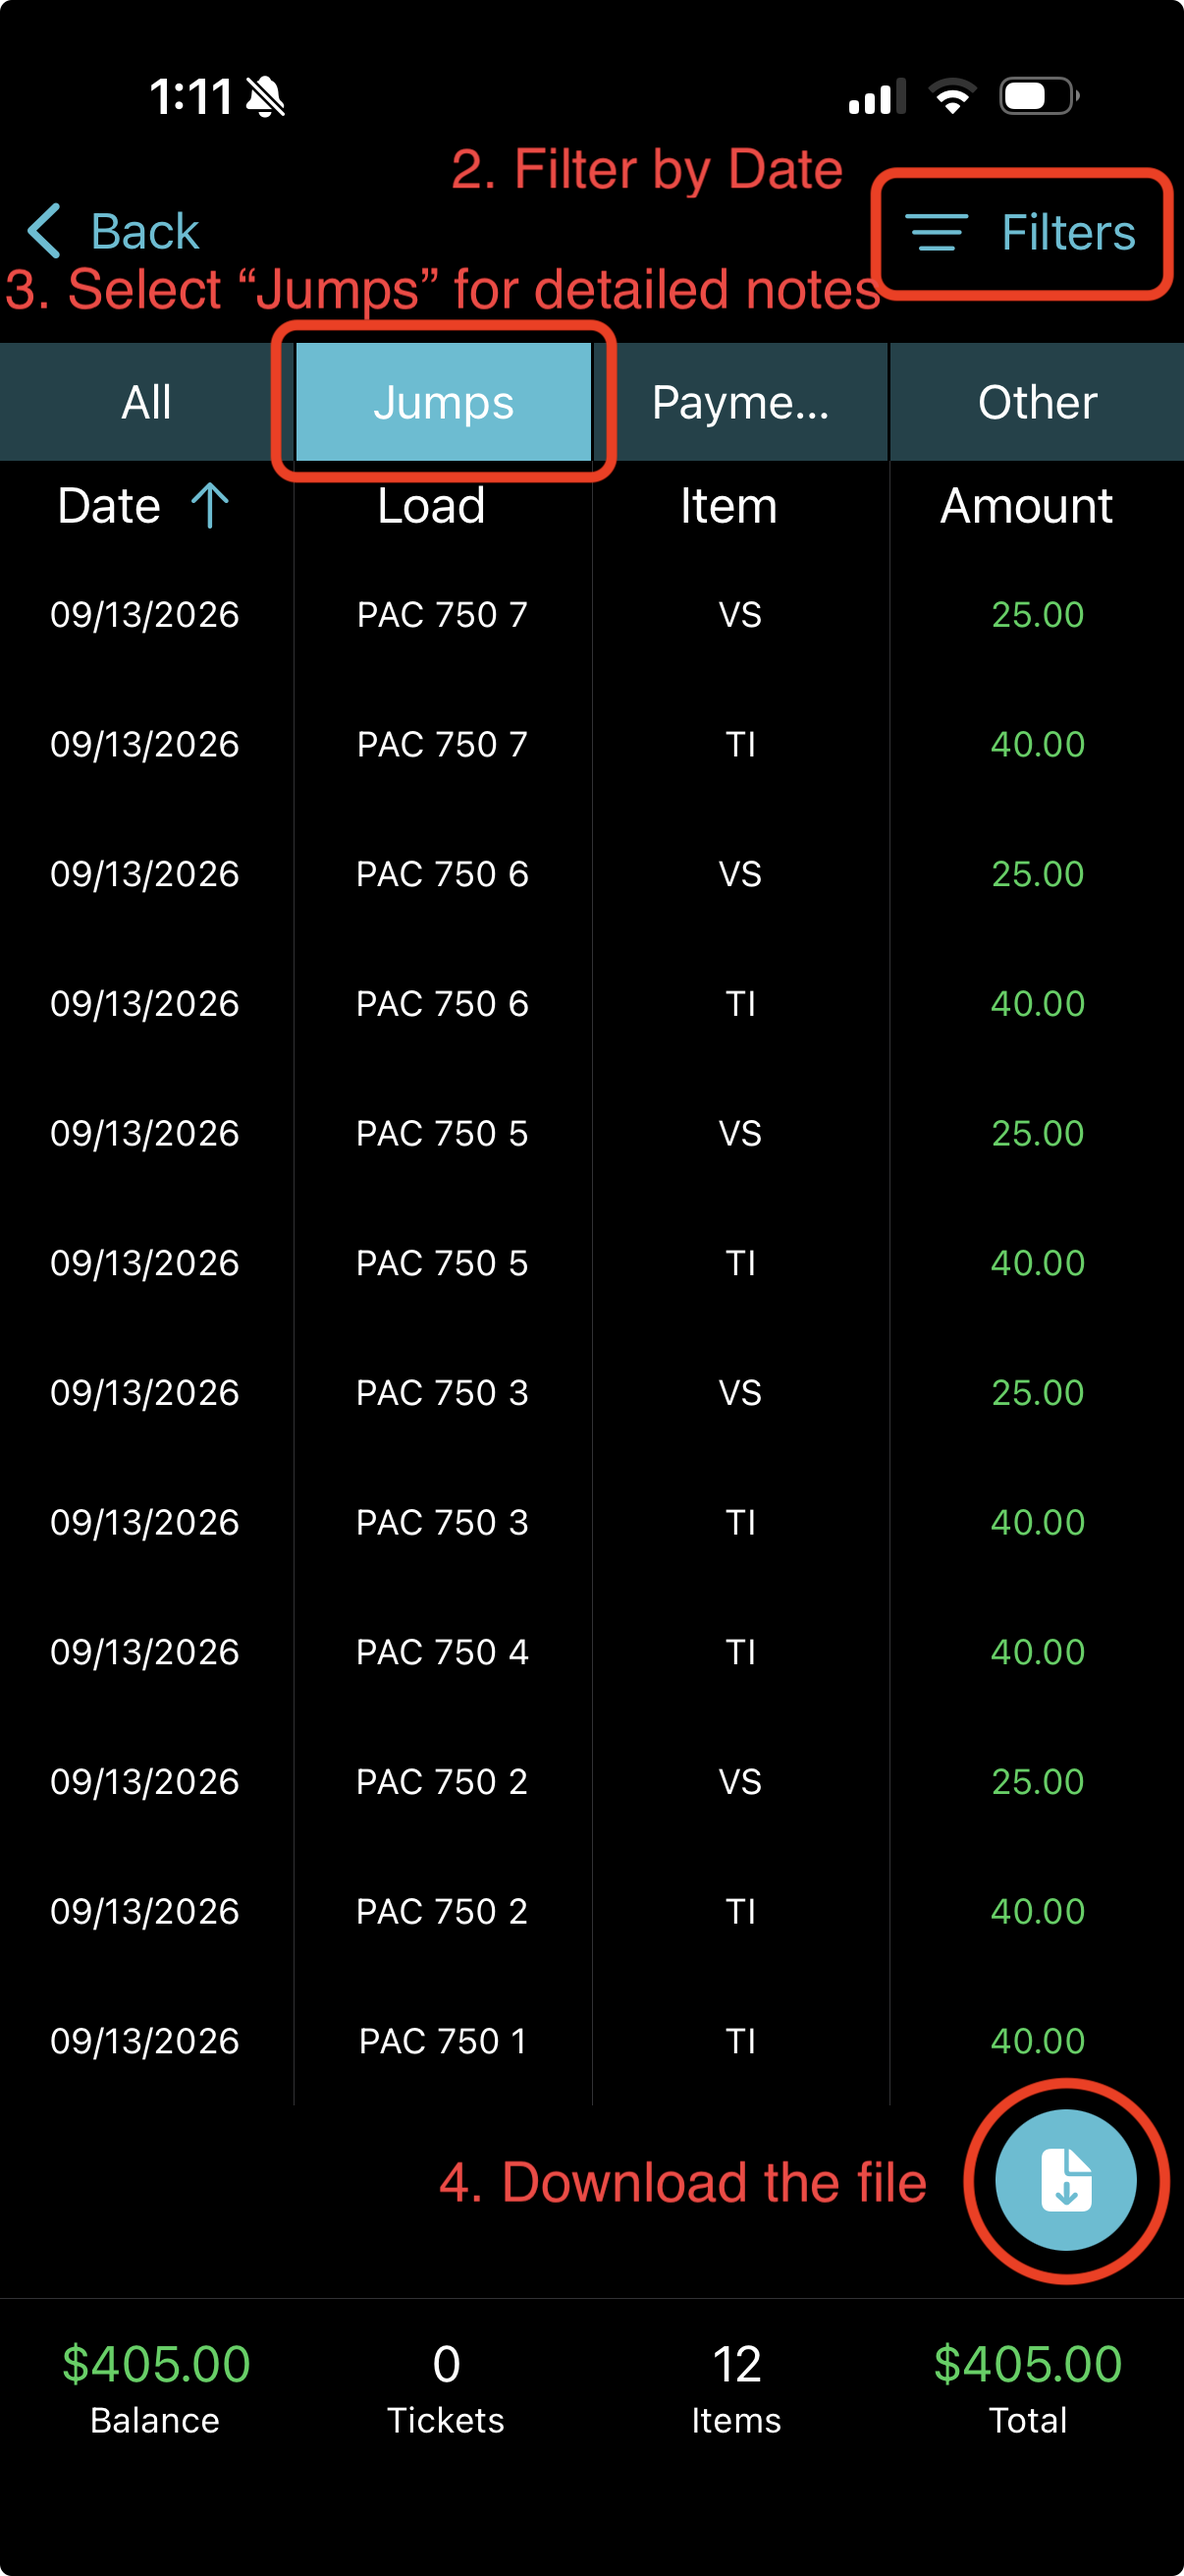
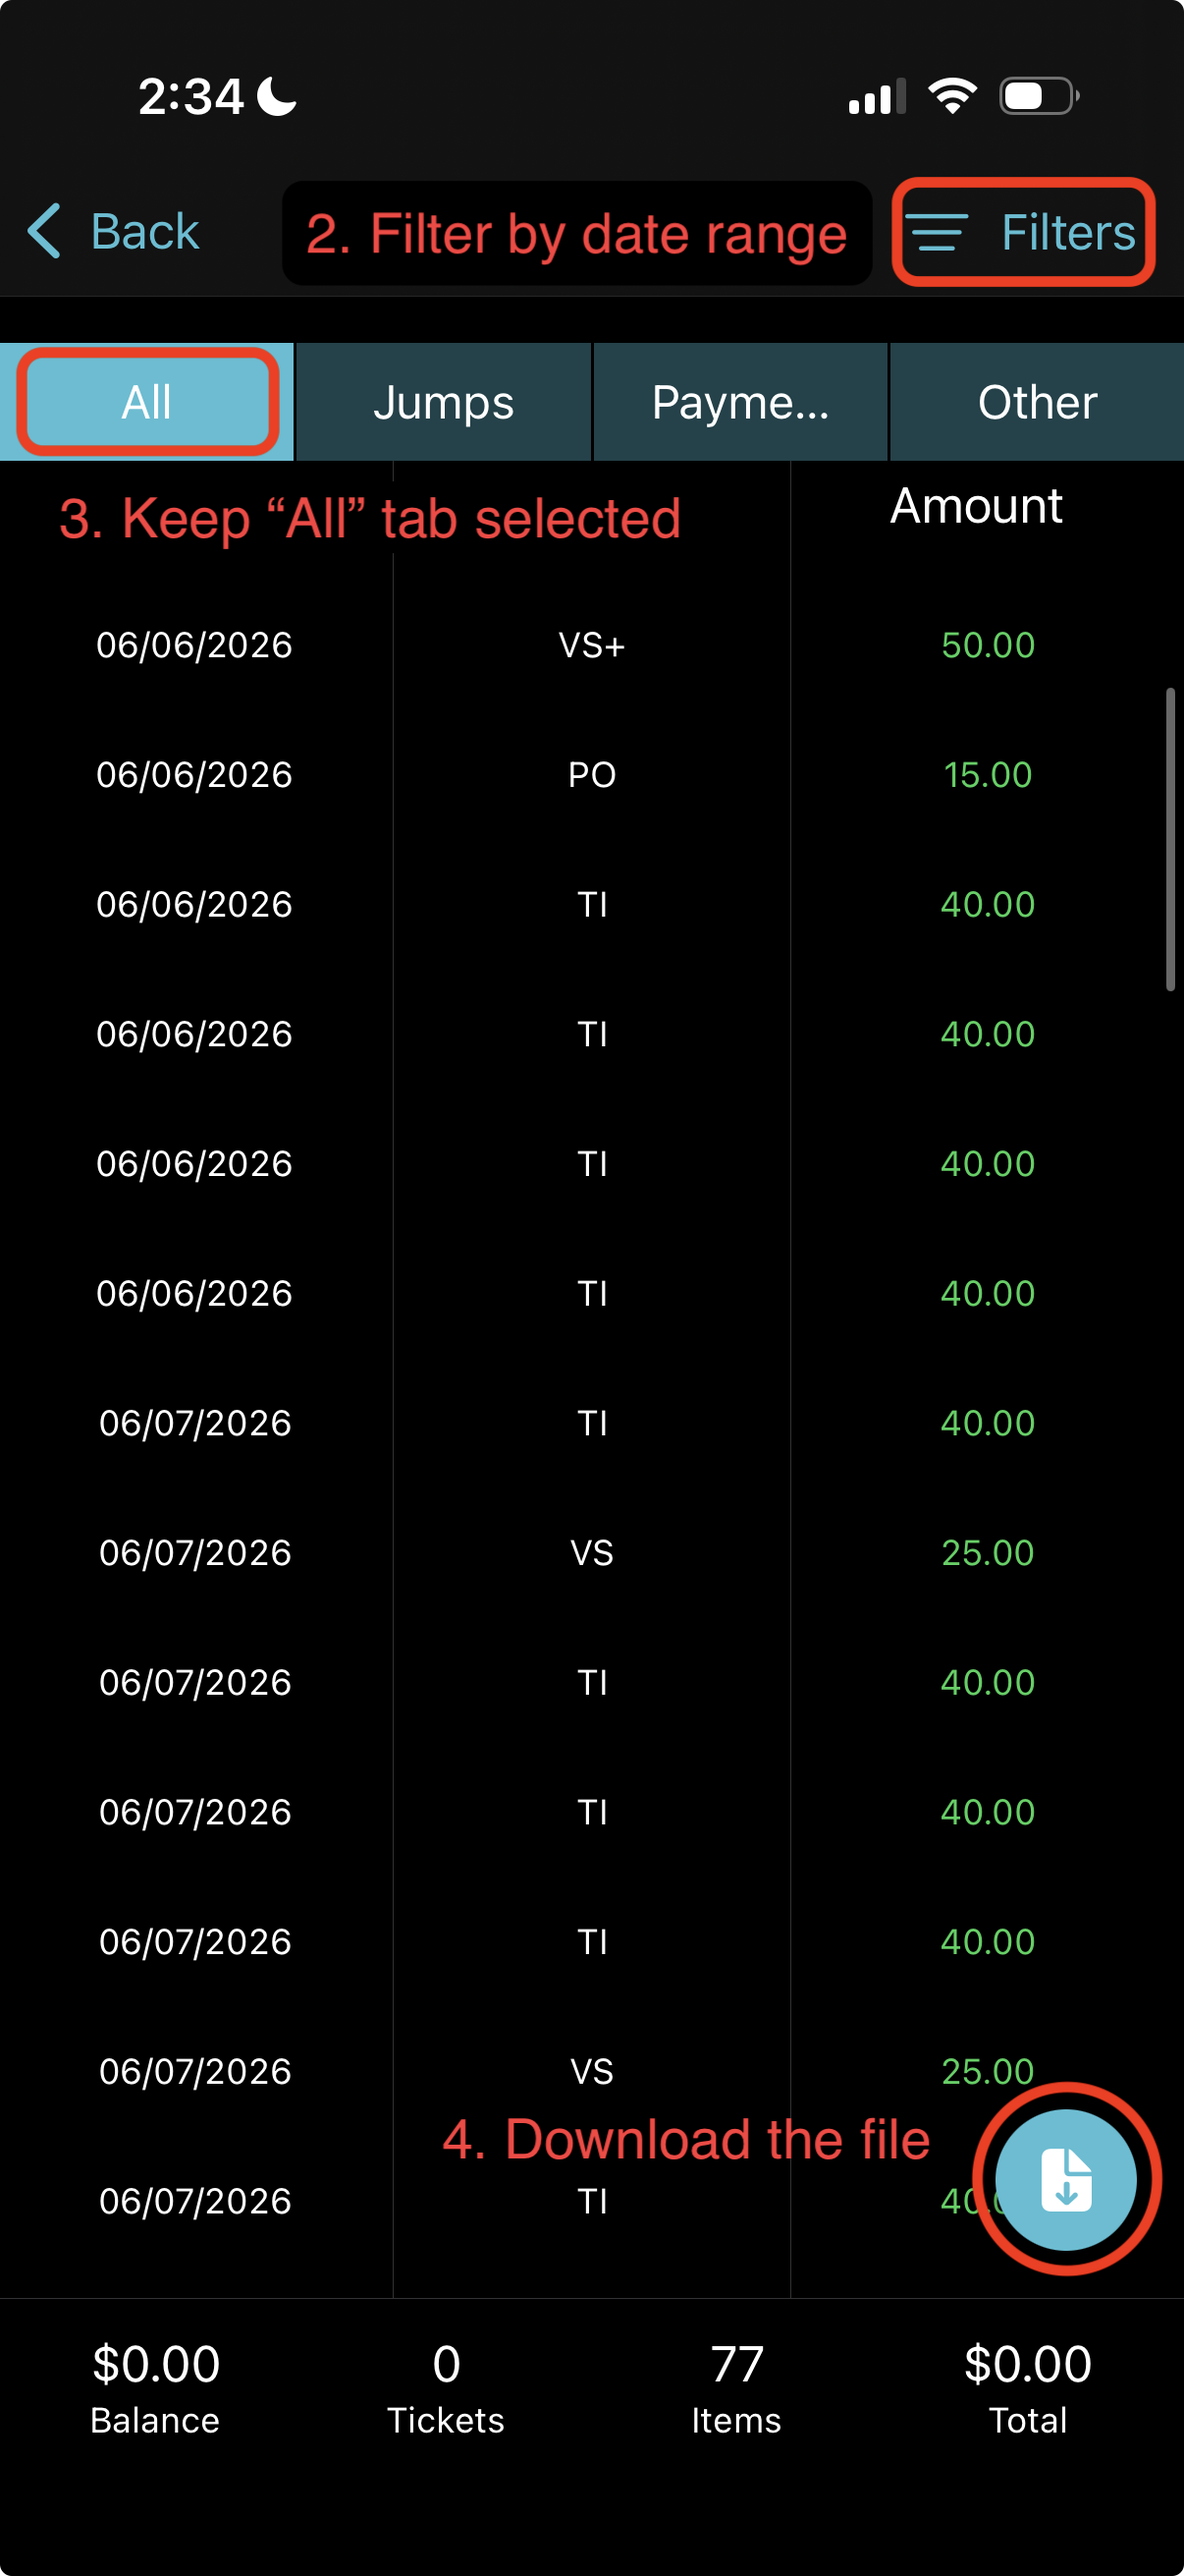
revise import burble content

diff --git a/src/content/docs/technical/import-burble-logbook.md b/src/content/docs/technical/import-burble-logbook.md
@@ -23,7 +23,9 @@ You need Burble's **Transaction History** export. It is a CSV file with four col
 
 **2. Filter by date.** Tap **Filters** and choose the date range you want to import. You can import your entire burble history if you'd like.
 
-**3. Choose the Jumps tab.** 
+![The BurbleMe Filter screen showing the available ranges](../../../assets/import-burble/burble-filter-date-range.png)
+
+**3. Keep the "All" tab selected.** 
 
 **4. Download the file.** Tap the download button at the bottom right.
 
